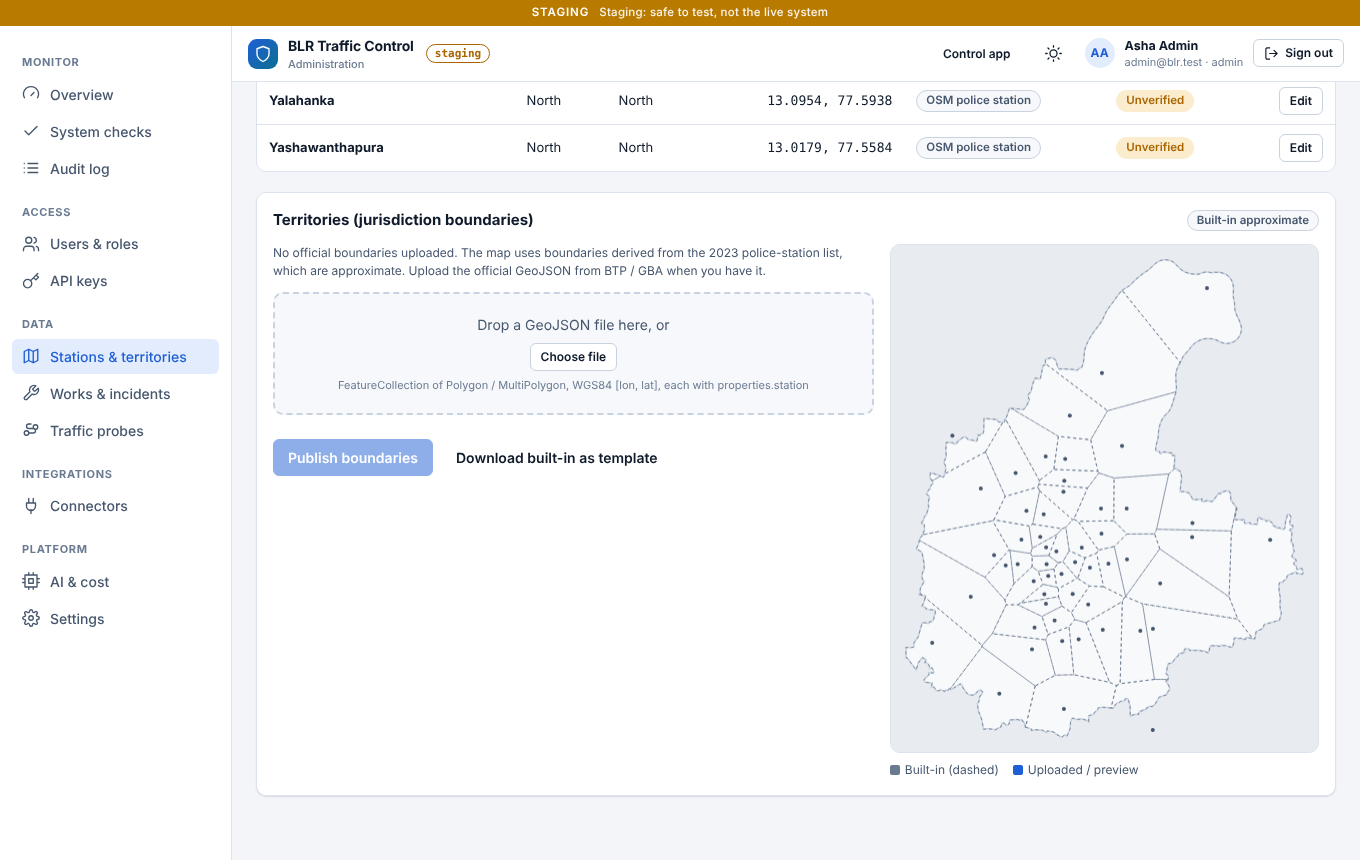
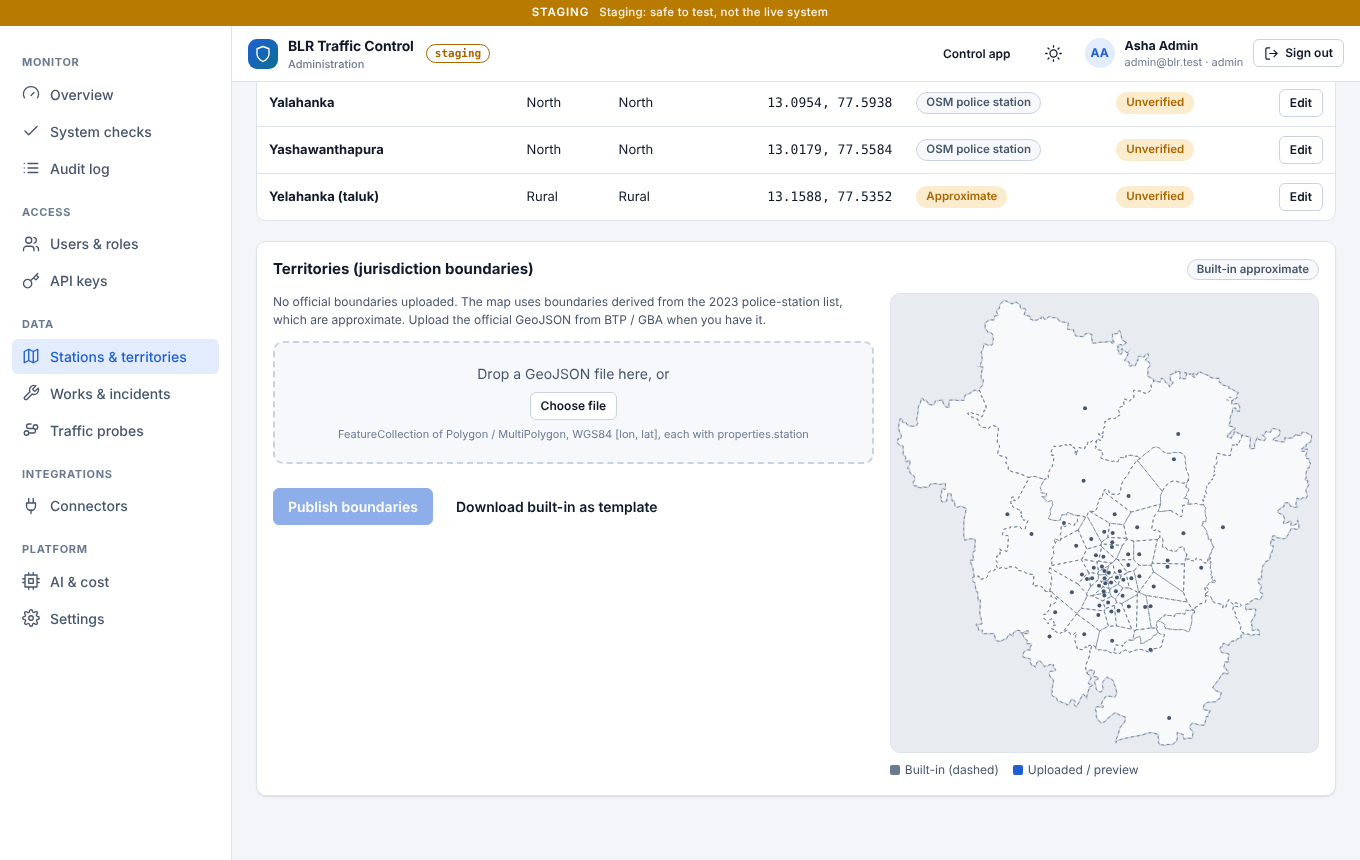
docs and readme updated

diff --git a/tools/mapdata/rural.py b/tools/mapdata/rural.py
@@ -1,10 +1,13 @@
-"""Add Bengaluru Rural (Devanahalli, Doddaballapura, Hoskote, Nelamangala taluks) to the road/territory stage.
-Rural = four Bangalore Rural taluks + the parts of the four Bengaluru Urban district taluks (Anekal, South, North, East, Yelahanka) that lie outside the city territory.
-Reads  stage1.city.json (the city-only stage, copied once from stage1.json), data/rural_taluks.json (KGIS taluk
-boundaries, EPSG:4326) and data/raw/work4/rural_osm.json (OSM highways from tools/mapdata/extract_osm.py).
-Writes stage1.json (city + Rural). Then run graph12.py and final.py as before.
-Rural territories are the four official taluks minus the existing city territory. They are taluk-level units, NOT police
-stations: no Rural station list was available, so none is invented. Crash figures are absent (t/f = null)."""
+"""Add the outer area (Bengaluru Rural and the rural parts of Bengaluru Urban district) to the road/territory stage.
+Units (9): Nelamangala, Doddaballapura, Devanahalli, Hoskote (Bangalore Rural taluks) and Anekal, Bengaluru South, Bengaluru North,
+Bengaluru East, Yelahanka (Bengaluru Urban district taluks, only the part outside the city territory).
+Reads  stage1.city.json (the city-only stage, copied once from stage1.json), data/rural_taluks.json (KGIS taluk boundaries,
+EPSG:4326) and data/raw/work4/rural_osm.json (OSM highways from extract_osm.py, motorway to residential).
+Roads: classes 0-2 routable; tertiary/unclassified (3) and residential (4) are draw-only. Residential streets are kept only
+inside the city and within a transition belt of it; endpoints near existing roads are snapped (SNAP) so city and outer roads link.
+Writes stage1.json (city + outer area). Then run graph12.py and final.py as before.
+The outer units are taluk-level units, NOT police stations: no station list was available, so none is invented.
+Crash figures are absent (t/f = null) and shown as a dash in the app."""
 import json, math, os, shutil, collections, sys
 import numpy as np
 from shapely.geometry import Polygon, MultiPolygon, LineString, Point, shape

diff --git a/tools/mapdata/extract_osm.py b/tools/mapdata/extract_osm.py
@@ -1,4 +1,4 @@
-"""Extract highway ways (motorway..tertiary) and police nodes inside a bbox from an OSM .osm.pbf.
+"""Extract highway ways (motorway..residential; classes in CLS) and police nodes inside a bbox from an OSM .osm.pbf.
 Resumable, time-budgeted (each run does at most --budget seconds) and parallel; node coordinates are decoded
 straight from the PBF DenseNodes blocks with numpy, so no node index is held in memory.
 Usage: python3 extract_osm.py <in.osm.pbf> <workdir> [--budget 150] [--bbox S W N E] [--finish out.json]"""

diff --git a/README.md b/README.md
@@ -1,8 +1,8 @@
 # Bengaluru Traffic Control Room
 
-A map-based control room for Bengaluru traffic operations: whole city plus North, East, Central, West and South regions, 53 police-station territories, real OpenStreetMap roads, role-scoped actions, road-closure planner, works-clash analysis, English and Kannada. A separate Admin site manages users, data connectors, API keys, AI budget, system checks and audit. Built for Google Cloud, sized for a proof of concept.
+A map-based control room for Bengaluru traffic operations: the whole area, the Urban city (North, East, Central, West, South regions, 53 police-station territories) and the outer Rural area (9 taluk units), on real OpenStreetMap roads. Three admin-controlled map views, role-scoped actions, road-closure planner, works-clash analysis, English and Kannada. A separate Admin site manages users, data connectors, API keys, AI budget, system checks and audit. Built for Google Cloud, sized for a proof of concept.
 
-> **Honest status.** Traffic state is **modelled** (BPR link times, assignment, gravity demand) and is labelled "LIVE (modelled)" only when calibrated against probe observations. Crash statistics are real (BTP 2018–2025 via OpenCity). Station territories are approximate (Voronoi, clipped to the boundary). Kannada text needs native review. Nothing here has been run against real Firestore, Vertex AI, Secret Manager, Firebase Auth or Cloud Run; see [Validation status](#validation-status).
+> **Honest status.** Traffic state is **modelled** (BPR link times, assignment, gravity demand) and is labelled "LIVE (modelled)" only when calibrated against probe observations. Crash statistics are real (BTP 2018–2025 via OpenCity). Station territories are approximate (Voronoi, clipped to the boundary). The 9 outer units are taluks, not police stations, and have no crash data. Kannada text needs native review. Automated tests run against in-memory and mock backends, not real Firestore, Vertex AI, Secret Manager, Firebase Auth or Cloud Run; see [Validation status](#validation-status).
 
 ## Why this exists
 
@@ -11,12 +11,15 @@ Dashboards over monthly crash data are easy to rebuild in a BI tool. What a city
 ## Scope
 
 **In scope (built):**
-- Whole-city map plus North, East, Central, West and South regions, 53 station territories, about 10,000 real OpenStreetMap road segments.
+- One map, 62 areas: 53 police-station territories in five Urban regions plus 9 outer taluk units (Nelamangala, Doddaballapura, Devanahalli, Hoskote, Anekal, Bengaluru South/North/East, Yelahanka). Scope chips (keys 1 to 8): Whole area, Urban, North, East, Central, West, South, Rural. Choosing Urban or Rural dims the other.
+- About 15,000 routable road segments (motorway to secondary) and about 117,000 drawn segments including tertiary roads and, as you zoom in, residential streets in the city and the link zone around it. Outer roads connect to city roads.
+- Three map views with a legend and a "use it to" hint each: **Live traffic** (modelled congestion), **Crash hotspots** (2025 fatal crashes per station area), **Area speed** (average modelled speed per area).
+- Admin control of the map without a deploy: default view, which roles see which view, which data layers exist (local roads, stations, incidents, works, Google live traffic), speed-colour thresholds and the crash shading scale.
 - Role-scoped access: Commissioner (city), DCP (one region), station (own station, sees its region), viewer (read only), admin.
 - Action workflow (new, acknowledged, in progress, done) with escalation and verification timers.
 - Road-closure and works planner that quantifies city-wide impact by time of day, plus works-clash detection.
 - Replay of a typical day in the browser; English and Kannada.
-- Admin site for users, connectors, API keys, probes, AI budget, system checks, audit log.
+- Admin site for users, stations and territories, connectors, API keys, probes, works, map views and layers, AI budget, system checks, audit log.
 - Cost-bounded AI (Gemini tiers, quotas, caches, kill switch) and Terraform for the full GCP stack.
 
 **Out of scope (not built):** camera or video analytics, e-challan, ANPR processing, citizen-facing features, mobile apps, any integration with real police systems (the connector framework is ready; access is not).
@@ -27,12 +30,18 @@ All images are real screenshots of the running app (Control from the local dev s
 
 | | |
 |---|---|
-| ![Commissioner, whole city, 09:00 replay](docs/images/control-commissioner.png) | ![Station user: map locked to North, own station highlighted](docs/images/control-station.png) |
-| **Commissioner**: whole city with regions, KPIs, typical-day timeline and replay | **Station user (Yalahanka)**: sees only its region, own station highlighted |
+| ![Commissioner, whole area, 09:00 replay](docs/images/control-commissioner.png) | ![Crash hotspots view with legend](docs/images/control-crash-view.png) |
+| **Live traffic** (default): whole area with Urban regions and Rural, KPIs, typical-day timeline and replay | **Crash hotspots**: station areas shaded by 2025 fatal crashes; legend says what the colours mean and what to do with them |
+| ![Area speed view](docs/images/control-speed-view.png) | ![Rural scope](docs/images/control-rural.png) |
+| **Area speed**: areas shaded by average modelled speed, slowest areas listed | **Rural scope**: outer taluk units and their roads, Urban dimmed; no crash data (shown as a dash) |
+| ![Map panel](docs/images/control-layers.png) | ![Station user: map locked to North, own station highlighted](docs/images/control-station.png) |
+| **Map panel**: views and layers; only what the admin allows for your role appears | **Station user (Yalahanka)**: sees its region, own station highlighted |
 | ![Closure planner](docs/images/control-planner.png) | ![Dark theme](docs/images/control-dark.png) |
 | **Planner**: closure impact by time of day, diversion shifts with crash history | **Dark theme** |
 | ![Admin overview](docs/images/admin-overview.png) | ![Admin connectors](docs/images/admin-connectors.png) |
 | **Admin overview**: system checks, connector health, feed and AI status | **Connectors**: REST, webhook, CSV, Google Routes, TomTom, GBA/BMRCL, OpenCity |
+| ![Map views and layers settings](docs/images/admin-settings-map.png) | ![Stations and territories](docs/images/admin-stations.png) |
+| **Settings, Map views and layers**: default view, per-role views, layers, speed thresholds | **Stations and territories**: coordinate overrides, official boundary upload |
 | ![AI and cost](docs/images/admin-ai-cost.png) | ![Users and roles](docs/images/admin-users.png) |
 | **AI and cost**: calls by tier, spend, cache hit rate, kill switch | **Users and roles**: allowlist with region and station scope |
 
@@ -54,7 +63,7 @@ Two static sites on Firebase Hosting (Control, Admin) call one Cloud Run API thr
 | `packages/core` | Store (Firestore / in-memory), auth, connectors, AI router, ingest, checks |
 | `packages/shared` | Roles, permissions, jurisdiction, workflow |
 | `packages/ui` | Shared design system |
-| `packages/mapdata`, `tools/mapdata` | Packaged map and the pipeline that builds it |
+| `packages/mapdata`, `tools/mapdata` | Packaged map (`map.json`, crash data) and the Python pipeline that builds it from OpenStreetMap and KGIS (see [docs/data-sources.md](docs/data-sources.md)) |
 | `infra/terraform` | All GCP resources |
 | `scripts` | bootstrap, deploy, doctor, seed, set-secret, smoke, rollback, teardown |
 | `docs` | Architecture, API contract, security, cost and AI, model, integration guide, runbook, data sources, roadmap |
@@ -82,11 +91,13 @@ You run these; no credentials ever go to anyone else.
 6. `scripts/seed.sh --env dev --admin-email you@example.com` creates the first admin. Everything after that is done in the Admin site.
 7. `scripts/doctor.sh --env dev` for a read-only health check.
 
+Or deploy from GitHub Actions: set the GitHub environment variables `WIF_PROVIDER`, `WIF_SERVICE_ACCOUNT`, `TF_STATE_BUCKET` and `TFVARS` (the full contents of your tfvars file), then run **Deploy** (Terraform, images, Cloud Run, Hosting). **Deploy web only** publishes just the two static sites and runs automatically on pushes to `main` that touch them. Details in [docs/runbook.md](docs/runbook.md).
+
 Details: [docs/runbook.md](docs/runbook.md). Costs and AI caps: [docs/cost-and-ai.md](docs/cost-and-ai.md). Every price in that page is an assumption to verify.
 
 ## Access model
 
-Google sign-in through Identity Platform, then an email allowlist in Firestore (`users/{email}`). Roles: `admin`, `commissioner` (whole city), `dcp` (one region), `station` (own station, sees region map), `viewer` (read only). Every check is enforced server-side; the UI only dims. See [docs/security.md](docs/security.md).
+Google sign-in through Identity Platform, then an email allowlist in Firestore (`users/{email}`). Roles: `admin`, `commissioner` (whole area), `dcp` (one region), `station` (own station, sees region map), `viewer` (read only). Every check is enforced server-side; the UI only dims. See [docs/security.md](docs/security.md).
 
 ## AI and cost control
 
@@ -98,10 +109,12 @@ Generic REST and webhook connectors, CSV upload, inbound `x-api-key` ingest, Goo
 
 ## Validation status
 
-Verified here: unit tests (core 45, api 23, worker 4, model 6, shared 6), Control Playwright suite (22 scenarios) and Admin Playwright suite (38) against mock and in-memory servers, repo lint, shellcheck, Terraform syntax parse.
+Verified here: unit tests (core 45, api 26, worker 4, model 6, shared 6), Control suite (37 tests incl. Playwright scenarios) and Admin suite (41 tests incl. Playwright scenarios) against mock and in-memory servers, repo lint, shellcheck, Terraform syntax parse.
 
-**Not verified:** `terraform validate/plan/apply`, Docker image builds, real Firestore, Vertex AI, Secret Manager, Identity Platform, Cloud Scheduler OIDC, billing budget. Read the plan before the first apply. Open items before real operational use: independent VAPT, MFA enforced at the Google tenant, calibration against real probe data, native Kannada review, verification of approximate station coordinates (6 are approximate).
+CI (`.github/workflows/ci.yml`) also runs Terraform fmt/validate and container builds on GitHub; those were not run in the authoring sandbox.
+
+**Not verified by automated tests:** `terraform plan/apply` results, real Firestore, Vertex AI, Secret Manager, Identity Platform, Cloud Scheduler OIDC, billing budget. Read the plan before the first apply. Open items before real operational use: independent VAPT, MFA enforced at the Google tenant, calibration against real probe data, native Kannada review, verification of approximate station coordinates (6 are approximate), confirmation that the Commissionerate's jurisdiction covers the outer taluks.
 
 ## Data and licences
 
-Roads © OpenStreetMap contributors (ODbL), crash data from BTP via OpenCity, see [docs/data-sources.md](docs/data-sources.md). Code is released under the licence in [LICENSE](LICENSE).
+Roads © OpenStreetMap contributors (ODbL), taluk boundaries from KGIS (Karnataka GIS), crash data from BTP via OpenCity, see [docs/data-sources.md](docs/data-sources.md). Code is released under the licence in [LICENSE](LICENSE).

diff --git a/docs/api-contract.md b/docs/api-contract.md
@@ -29,7 +29,7 @@ epoch milliseconds unless a field says `hour` (IST hour-of-day float, 0–24). B
 | `probes/{id}` | `{id,name,fromNode,toNode,fromLabel,toLabel,freeMin,enabled,weight}` — node ids index `map.json` route nodes |
 | `probe_obs/{id}` | `{probeId,at,minutes,source}` (TTL 7 d) |
 | `apikeys/{id}` | `{id,name,hash,prefix,scopes:[…],rateLimit,createdBy,createdAt,lastUsed?,revoked:boolean}` |
-| `settings/app` | `{feed:{mode:'sim'|'live'|'blend',tickMin:10,staleAfterMin:25},workflow:{escalateAfterMin:15,verifyAfterMin:30},ai:{enabled,dailyCallCap,perUserDaily:{admin,commissioner,dcp,station,viewer},tiers:{t1:{enabled,model},t2:{…},t3:{…}},killReason?},caps:{routesCallsPerDay,tomtomCallsPerDay},maintenance:boolean}` |
+| `settings/app` | `{feed:{mode:'sim'|'live'|'blend',tickMin:10,staleAfterMin:25},workflow:{escalateAfterMin:15,verifyAfterMin:30},ai:{enabled,dailyCallCap,perUserDaily:{admin,commissioner,dcp,station,viewer},tiers:{t1:{enabled,model},t2:{…},t3:{…}},killReason?},caps:{routesCallsPerDay,tomtomCallsPerDay},map:{defaultView:'traffic'|'safety'|'speed',views:{safety:{[role]:boolean},speed:{[role]:boolean}},layers:{minorRoads,stations,incidents,works,googleTraffic:boolean},speedBands:{slow,moderate,good,fast:int km/h, strictly rising},crashScale:int},maintenance:boolean}` (`map.views` and `map.layers` are admin-controlled; Live traffic is always available) |
 | `ai_usage/{yyyyMMdd}` | `{date,calls,tokensIn,tokensOut,byTier:{t0,t1,t2,t3},byUser:{email:calls},cacheHits,estCostUsd}` |
 | `ai_cache/{sha256}` | `{key,tier,text,createdAt,expireAt}` (TTL 24 h) |
 | `audit/{id}` | `{id,at,actor,role,kind,target,summary,ip?,meta?}` (append-only; never updated or deleted by the app) |
@@ -39,7 +39,7 @@ epoch milliseconds unless a field says `hour` (IST hour-of-day float, 0–24). B
 Response header `ETag`; request `If-None-Match` → `304`. Response (`state/current` plus server fields):
 ```json
 { "t": 1791378144000, "hour": 18.33, "date": "2026-10-07", "mode": "sim|live|blend", "boost": 1.12, "stale": false,
-  "updatedAt": 1791378140000, "net": {"edges": 10263, "mapVersion": "…"},
+  "updatedAt": 1791378140000, "net": {"edges": 15051, "mapVersion": "…"},
   "city": {"speed": 31.2, "congPct": 12.4},
   "stations": [{"i":0,"speed":28.1,"cong":14.0}],
   "vc": "<base64 uint8 per edge, vc*100>", "spd": "<base64 uint8 per edge, km/h>",
@@ -53,19 +53,20 @@ Everything in `/state` is **modelled**; `mode:"live"` means the model is calibra
 ## Endpoints (caller role in brackets; `*` = any signed-in allowlisted user)
 
 ### Session
-* `GET /api/me` `*` → `{email,name,role,region,station,active,permissions:string[],lockedRegion:string|null,jurisdiction:string[],flags:{aiEnabled:boolean,maintenance:boolean}}`
+* `GET /api/me` `*` → `{email,name,role,region,station,active,permissions:string[],lockedRegion:string|null,jurisdiction:string[],flags:{aiEnabled:boolean,maintenance:boolean},map:{…as settings.map…}}`. `map` carries the admin-controlled view and layer settings; the Control app re-reads `/me` about every 4 ticks and hides views and layers that are switched off for the caller's role.
+* `POST /api/preflight` `*` → `{at,day,api:{ok,ms},data:{ok,mode,ageMin,stale,limitMin},ai:{status,detail,cached},glance:{incidents,actions,works,stations,mode},maintenance,platform?}` for the sign-in welcome screen (`platform` only for `admin`: system checks, users, connectors, AI usage). The AI probe runs at most once per IST day for the whole system (see the runbook).
 * `GET /healthz` (public, no auth) `{ok:true}`; `GET /readyz` (public) checks store reachability → `{ok,store:'ok'}`.
 
 ### Operations
 * `GET /api/state` `*` → State.
-* `GET /api/crash` `*` → `{stations:{[name]:{y2025:{fatal,nonfatal},hist}},importedAt}`.
+* `GET /api/crash` `*` → `{stations:{[name]:{y2025:{fatal,nonfatal},hist}},importedAt}`. Only the 53 police stations have entries; the 9 outer taluk units have none and the UI shows a dash.
 * `GET /api/actions?state=open|all&limit=200` `*` → `{actions:[…]}` filtered server-side: `station`/`dcp` get their **region**; others all. Sorted escalated first, then newest.
 * `POST /api/actions/:id/transition` `{to:'ack'|'prog'|'done', note?}` → updated action. Requires `action.transition` **and** the action's station ∈ caller jurisdiction, else 403. Illegal transition → 409. Writes audit.
 * `GET /api/incidents?date=` `*` → `{incidents:[…]}` (sim + user + connector for the date).
 * `POST /api/incidents` `{edge:number,type:string,durationMin:10..240,note?}` `incident.report` & station of `edge` ∈ jurisdiction → incident (src `user`) and a new action. Audit.
 * `GET /api/works` `*` → `{works:[…]}`; `POST /api/works` / `PATCH /api/works/:id` / `DELETE /api/works/:id` require `works.write`; `DELETE` is a soft delete (`active:false`). Audit.
 * `POST /api/ai/advise` `ai.advise` `{kind:'action_advice'|'translate_kn'|'works_clash',context:object}` → `{text,tier:'t0'|'t1'|'t2',cached:boolean,model?}`
-* `POST /api/ai/brief` `ai.brief` `{scope:'city'|region}` → `{text,tier:'t3',cached,generatedAt}` (cached per scope+hour; at most `brief` quota/day).
+* `POST /api/ai/brief` `ai.brief` `{scope:'city'|'Urban'|region}` → `{text,tier:'t3',cached,generatedAt}` (cached per scope+hour; at most `brief` quota/day).
 * `GET /api/ai/quota` `*` → `{used,limit,resetsAt,aiEnabled}`.
 
 ### Admin (role `admin` only; every mutation writes an audit row)

diff --git a/docs/data-sources.md b/docs/data-sources.md
@@ -4,13 +4,20 @@
 |---|---|---|
 | Roads | OpenStreetMap contributors, ODbL. Attribution must stay visible in the app | Real |
 | Police stations (53) | Public station listing; 6 coordinates approximate | Verify and override in Admin > Stations |
-| Bengaluru Rural (4 taluk units) | Territories: official KGIS taluk boundaries (Karnataka GIS, via source.coop; check its licence) for Devanahalli, Doddaballapura, Hoskote and Nelamangala, minus the city territory. Roads: OpenStreetMap (Geofabrik southern-zone extract), motorway to tertiary | Real roads and boundaries. The units are taluks, not police stations: no Rural station list was used. No crash data (shown as a dash). Confirm the Commissionerate's jurisdiction covers them |
+| Outer area, "Rural" scope (9 taluk units) | Territories: official KGIS taluk boundaries (Karnataka GIS, via source.coop; check its licence) for Devanahalli, Doddaballapura, Hoskote and Nelamangala (Bangalore Rural) and Anekal, Bengaluru South, Bengaluru North, Bengaluru East and Yelahanka (Bengaluru Urban district), each minus the city territory. Roads: OpenStreetMap (Geofabrik southern-zone extract), motorway to residential | Real roads and boundaries. The units are taluks, not police stations: no station list was used. No crash data (shown as a dash). Confirm the Commissionerate's jurisdiction covers them |
 | Station territories | Voronoi around station points, clipped to the city boundary | Approximate; upload official boundaries to `territories/current` |
 | Crash statistics | Bengaluru Traffic Police 2018–2025 via OpenCity | Real, aggregate per station |
-| Traffic speeds and congestion | Built-in model | Modelled unless calibrated with probes |
+| Traffic speeds and congestion | Built-in model | Modelled unless calibrated with probes. Applies to the Rural area too, where it is least reliable |
 | Incidents, works | Simulated seed data, or entered/imported | Real only when entered or connected |
 | Kannada text | Written by the authors | Needs native-speaker review |
 
-Rebuild the map: `tools/mapdata` (`prep.py`, `graph12.py`, `final.py`, `stations.py`), needs Python and the input files in `tools/mapdata/data`.
+## Rebuilding the map
 
-Rebuild with Rural: `prep.py` (city) → `python3 extract_osm.py <southern-zone.osm.pbf> data/raw/work` (about 80 s, resumable, needs `pip install osmium numpy`) → `python3 rural.py` (adds the four taluk units and their roads to `stage1.json`; keeps a city-only copy as `stage1.city.json`) → `graph12.py` → `final.py`. Copy `map.json` to `packages/mapdata/`.
+Inputs live in `tools/mapdata/data` (`boundary.txt`, `police.json`, `roads.json`, `crash_2018_2025.json`, `rural_taluks.json`). Large raw files go in `data/raw/`, which is git-ignored and must never be committed. Needs Python 3 with `numpy`, `scipy`, `shapely`, `networkx` and `osmium`. `rural_taluks.json` was converted once from the KGIS `Taluk.parquet` (EPSG:32643 to EPSG:4326; needs `pyarrow` and `pyproj`) and is checked in.
+
+1. City: `python3 prep.py` (uses the station list in `stations.py`, the boundary and OSM roads; writes `stage1.json`).
+2. Outer area: download the Geofabrik southern-zone `.osm.pbf`, then `python3 extract_osm.py <file.osm.pbf> data/raw/work4` (bbox 12.55, 77.15 to 13.55, 78.10; resumable and time-budgeted: re-run until it finishes). It writes `rural_osm.json`.
+3. `python3 rural.py` adds the nine outer units, their roads, residential streets near and inside the city, and snaps road ends so city and outer roads connect. It keeps a city-only copy as `stage1.city.json` and is re-runnable.
+4. `python3 graph12.py` then `python3 final.py` write `map.json`; copy it to `packages/mapdata/map.json` and rebuild the web apps.
+
+Road classes in `map.json`: 0 to 2 are routable (motorway/trunk, primary, secondary); 3 (tertiary, unclassified) and 4 (residential, living street) are draw-only, and class 4 is shown only when zoomed in.

diff --git a/docs/integration-guide.md b/docs/integration-guide.md
@@ -37,7 +37,7 @@ Two separate Google keys, two separate jobs:
 
 | Key | Used by | Where it lives | Restrict to |
 |---|---|---|---|
-| Maps JavaScript API key | Optional Google basemap in the Control app (Layers → Basemap) | `maps_browser_key` in your git-ignored `dev.tfvars` → Terraform output → `config.js`. Public by design | HTTP referrers: the two `*.web.app` / `*.firebaseapp.com` Control domains; API: Maps JavaScript API only |
+| Maps JavaScript API key | Optional Google basemap in the Control app (Map → Base map) | `maps_browser_key` in your git-ignored `dev.tfvars` → Terraform output → `config.js`. Public by design | HTTP referrers: the two `*.web.app` / `*.firebaseapp.com` Control domains; API: Maps JavaScript API only |
 | Routes API key | `google_routes` connector (Admin → Connectors) | Secret Manager via `scripts/set-secret.sh`; the connector holds only `secretRef` | API: Routes API only; no referrer restriction (server-side calls) |
 
 Enable billing on the project. Terraform enables `maps-backend` and `routes`; deploy with the full Deploy workflow after setting `maps_browser_key` (optionally `maps_map_id`, a vector map ID, for smooth zoom; otherwise Google's demo ID is used).
@@ -46,11 +46,13 @@ Behaviour: the basemap is a layer under the existing canvas; the model's roads, 
 
 Terms caveat: Routes API durations are used only to calibrate the model; the app does not draw Google traffic or route geometry on a non-Google map. Have your counsel confirm that calibration use fits the Maps Platform terms before relying on it operationally.
 
-## Bengaluru Rural coverage
+## Outer area (Rural scope)
 
-Rural is covered by Google's own live traffic, not by our model. With a Google basemap selected, Layers → "Google live traffic" draws Google's Traffic layer over the whole visible area (zoom out beyond the city). It is Google's data on Google's map, which keeps within the Maps terms. Rural has no modelled congestion, actions, station territories or crash statistics because the road graph and stations come from the offline pipeline in `tools/mapdata` (OpenStreetMap roads plus the BTP station list), and Google data cannot be bulk-extracted into that graph under its terms.
+The map includes the outer area as nine taluk units: Nelamangala, Doddaballapura, Devanahalli, Hoskote, Anekal, Bengaluru South, Bengaluru North, Bengaluru East and Yelahanka (each minus the city territory). Their motorway to secondary roads are in the routable graph and carry modelled demand, so Rural shows modelled congestion, incidents and actions like the city. What it does not have: police-station territories (the units are taluks), crash statistics (shown as a dash), and any calibration data (probes are in the city). Treat Rural numbers as less reliable than the city's.
 
-Extending the modelled network to Rural means re-running that pipeline with OpenStreetMap road extracts and a Rural station list added as a separate zone. Confirm first that the Commissionerate's jurisdiction includes Rural stations; as far as I know Rural has its own district police.
+With a Google basemap selected, Map > "Google live traffic" additionally draws Google's own Traffic layer over the visible area. That is Google's data on Google's map, which keeps within the Maps terms; it is not mixed into the model. Google data cannot be bulk-extracted into the road graph under its terms.
+
+Confirm that the Commissionerate's jurisdiction covers these taluks before operational use; as far as I know Bengaluru Rural has its own district police. Add taluks or a station list by extending `tools/mapdata/rural.py` (see [data-sources.md](data-sources.md)).
 
 ## Map views and layers (admin-controlled)
 

diff --git a/docs/architecture.md b/docs/architecture.md
@@ -1,6 +1,6 @@
 # Architecture
 
-Bengaluru Traffic Control Room: a modelled live congestion map with role-scoped operations. Sized for a proof of concept (about 10 to 200 users) and built to cost close to nothing when idle. The HTTP contract is in [api-contract.md](api-contract.md); this page covers the deployed system.
+Bengaluru Traffic Control Room: a modelled live congestion map (Urban city plus outer taluks) with role-scoped operations and admin-controlled map views. Sized for a proof of concept (about 10 to 200 users) and built to cost close to nothing when idle. The HTTP contract is in [api-contract.md](api-contract.md); this page covers the deployed system.
 
 ## Components
 
@@ -127,6 +127,13 @@ The state is modelled. Even in `live` mode it is a model calibrated against prob
 ### What-if planner
 
 Runs entirely in the browser: the same `@blr/model` module as the server, executed in a Web Worker on the downloaded `map.json`. The server is involved only to supply current state and works. Requires the `planner.run` permission; nothing is written.
+
+## Control app: map data, scopes, views
+
+- **Map data.** `/assets/map.json` (from `packages/mapdata`, about 6.8 MB, about 2.1 MB over the wire with Hosting compression) holds 62 areas (53 police-station territories and 9 outer taluk units), about 15,000 routable segments (classes 0 to 2) and about 117,000 draw-only segments (tertiary, unclassified and class 4 residential streets). Every browser downloads it once per version; the model, replay and planner run on it client-side. The per-edge state in `state/current` is indexed by the routable segments only.
+- **Rendering.** One canvas. Classes 0 to 2 always; class 3 once zoomed in a little and class 4 residential streets once zoomed in further (both controlled by the Local roads layer). The canvas redraws on state, scope, view and zoom changes.
+- **Scopes.** `All` (whole area), `Urban` (the five regions together), one of North, East, Central, West, South, or `Rural` (the 9 outer units). A scope filters the KPIs, tables and the briefing; the map dims what is out of scope. Station and DCP users stay locked to their region by the server, not by the UI.
+- **Views.** Live traffic (road colours from the model), Crash hotspots (area shading from `/api/crash`) and Area speed (area shading from modelled speed). Which views and layers exist for a role, the default view and the thresholds come from `settings.map`, delivered in `GET /api/me`; the Control app re-reads `/me` about every 4 ticks, so an Admin change reaches open sessions within minutes without a deploy. This is a presentation control, not an access boundary: `/api/crash` and `/api/state` are readable by every signed-in role, so hiding a view does not hide its data. Writes and jurisdiction are still enforced by the API.
 
 ## Runtime configuration contract
 

diff --git a/docs/runbook.md b/docs/runbook.md
@@ -12,6 +12,22 @@
 | Maintenance | Set the maintenance flag in Admin > Settings (non-admins see a maintenance screen) |
 | Teardown | `scripts/teardown.sh --env <env>` (read the prompt; `delete_protection` guards Firestore) |
 
+## GitHub Actions configuration
+
+The `Deploy` and `Deploy web only` workflows use Workload Identity Federation (no JSON keys). Set these in the GitHub environment (`dev` / `prod`):
+
+| Variable | Meaning |
+|---|---|
+| `WIF_PROVIDER`, `WIF_SERVICE_ACCOUNT` | Workload Identity provider and deployer service account, printed by `scripts/bootstrap.sh` |
+| `TF_STATE_BUCKET` | Terraform state bucket (`<project>-tfstate`) |
+| `TFVARS` | The full contents of your `dev.tfvars` / `prod.tfvars` (project, admin emails, OAuth client id, budget, optional `maps_browser_key` and `maps_map_id`). Git-ignored locally; never commit it |
+
+The OAuth client secret is a GitHub **secret**, not a variable: `TF_VAR_OAUTH_CLIENT_SECRET`. `Deploy` fails fast with a clear message if a variable is missing.
+
+### Google sign-in (one manual step)
+
+Identity Platform needs a Google OAuth Web client, which cannot be created by Terraform. In the Cloud console: APIs & Services > Credentials > Create OAuth client ID (Web). Put the client id in `oauth_client_id` (in `TFVARS`) and the secret in `TF_VAR_OAUTH_CLIENT_SECRET`. After the first Deploy add `https://<value>/__/auth/handler` to the OAuth client's authorised redirect URIs, for each `auth_domain_*` Terraform output. If a secret is ever exposed, create a new one, update `TF_VAR_OAUTH_CLIENT_SECRET`, redeploy, and delete the old one.
+
 ## Frontend-only deploys
 
 `Deploy web only` (`.github/workflows/deploy-web.yml`) rebuilds the two static sites and publishes them to Firebase Hosting: lint, tests, build, `firebase deploy --only hosting`, smoke test. No Terraform apply, no Docker, no Cloud Run change; about 2 minutes.

diff --git a/docs/model.md b/docs/model.md
@@ -2,9 +2,9 @@
 
 `packages/model` is a deterministic, dependency-free JavaScript model shared by the API, worker and the Control app (replay mode runs it in the browser).
 
-- **Network.** Routable graph built from OpenStreetMap roads (`tools/mapdata`). One map unit is about 2.2 m.
+- **Network.** Routable graph of about 15,000 segments built from OpenStreetMap motorway, trunk, primary and secondary roads (`tools/mapdata`), covering the city and the outer taluks. Tertiary, unclassified and residential roads are drawn but not routed. One map unit is about 2.2 m.
 - **Link time.** BPR: `t = t0 * (1 + 0.15 * (v/c)^4)`, with `v/c` the volume to capacity ratio. Capacity is scaled by incident and works multipliers.
-- **Demand.** Gravity model among 64 centroids (7 hubs, the 53 station areas and the 4 Rural taluk units), total demand 300,000 trips, shaped by an hourly tide factor (`wt`) for the day profile.
+- **Demand.** Gravity model among 69 centroids (7 hubs, the 53 station areas and 9 outer-taluk units; the outer units carry demand and routes but no crash data), total demand 300,000 trips, shaped by an hourly tide factor (`wt`) for the day profile.
 - **Assignment.** Method of successive averages over shortest paths.
 - **Calibration.** Bisection of a global demand scale against probe observations (corridor minutes). Without probe data the state is labelled modelled/simulated, never live.
 - **State encoding.** Per edge `v/c` (uint8, x100) and speed (uint8, km/h), base64, so `state/current` stays one small document.

diff --git a/docs/roadmap.md b/docs/roadmap.md
@@ -8,3 +8,5 @@
 6. Backups and DR (Firestore PITR on), Binary Authorization and image scanning.
 7. Native Kannada review; accessibility audit.
 8. Mobile layout for field officers and push notifications.
+9. Outer area: confirm jurisdiction, then replace the 9 taluk units with real police-station territories and crash data; add the Ramanagara-district taluks if needed.
+10. Map pipeline: remove the 6,800 degenerate (zero-length or self-loop) edges in `graph12.py`; add village streets deep in Rural if wanted; consider tiling or splitting `map.json` (6.8 MB) for slow mobile networks.
